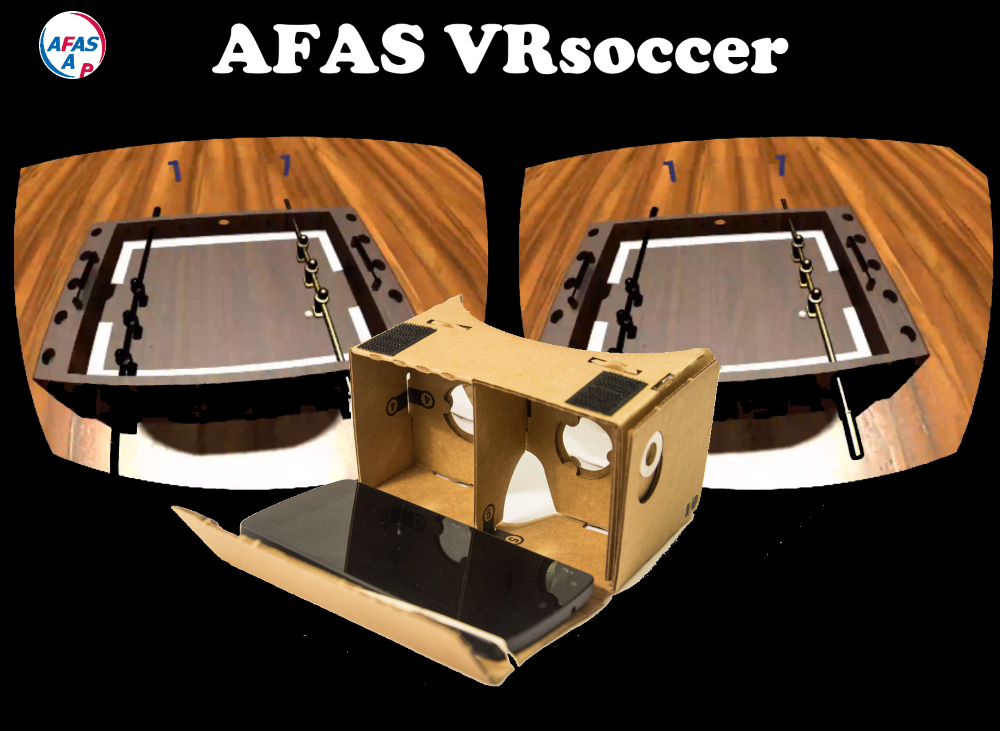
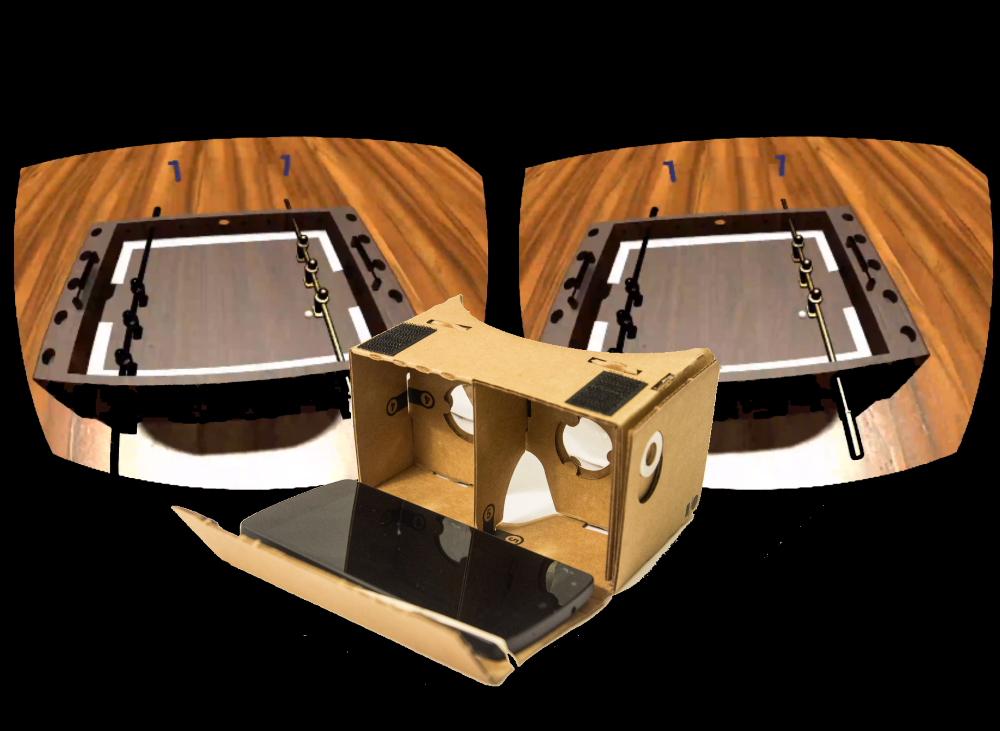
Updated all references to AFAS Software

Changed region(s): [[0.217, 0.0301, 0.806, 0.1204], [0.031, 0.0, 0.124, 0.1204]]

diff --git a/README.md b/README.md
@@ -1,32 +1,28 @@
-# VRSoccer
-(C) 2016 Dick Verweij dickydick1969@hotmail.com
+# AFAS Virtual Reality foosball
 
 ![AFAS VRSoccer](https://github.com/AFASResearch/VRSoccer/blob/master/vrsoccer.png)
 
-AFAS Virtual Reality foosball
+Play VR foosball with Google cardboard! A sample VR project to get started with cardboards & VR. 
 
-Google cardbox compatible. Make/use the hole in the cardbox to control the game with your finger.
+* Use the hole in the cardboard to control the game with your finger. 
+* You can even play foosball against others on this original AFAS foosball table.
+* Double tap spawns another ball.
+* Look at the rod to control the rod in the game.
 
-Play foosball against others on this original AFAS foosball table.
-
-Control the game with your finger.
-Look at the rod to control the rod in the game.
-
-Double tap spawns another ball.
-
-
-TODO: control the game with a wii controller or with air gestures (requires camera in cardbox to work..
-
-
-# Instructions
-
-Install > 4.13 Unreal Engine
-
-Clone this repository and build the UE project.
-
-Currently under development. 
-TODO: Network play
+This is intended as a sample project, it is not ready for any production usage :)
+We have many TODO's left, which might be implemented someday, or not.
+You are welcome to fork and built your own version. You might even send us pull requests.
 
 The APK can be downloaded here:  [VRSOCCER-armv7-es2](Build/Android_ETC2/VRSOCCER-armv7-es2.apk)
 
-For the IOS version you need to send me your email. Send it to d.verweij@afas.nl.
+For the IOS version you need to send an email to d.verweij@afas.nl.
+
+# Instructions for development
+
+* Install > 4.13 Unreal Engine
+* Clone this repository and build the UE project.
+
+# Known TODO's
+
+* Control the game with a wii controller or with air gestures (requires camera in cardbox to work.. 
+* Network play
